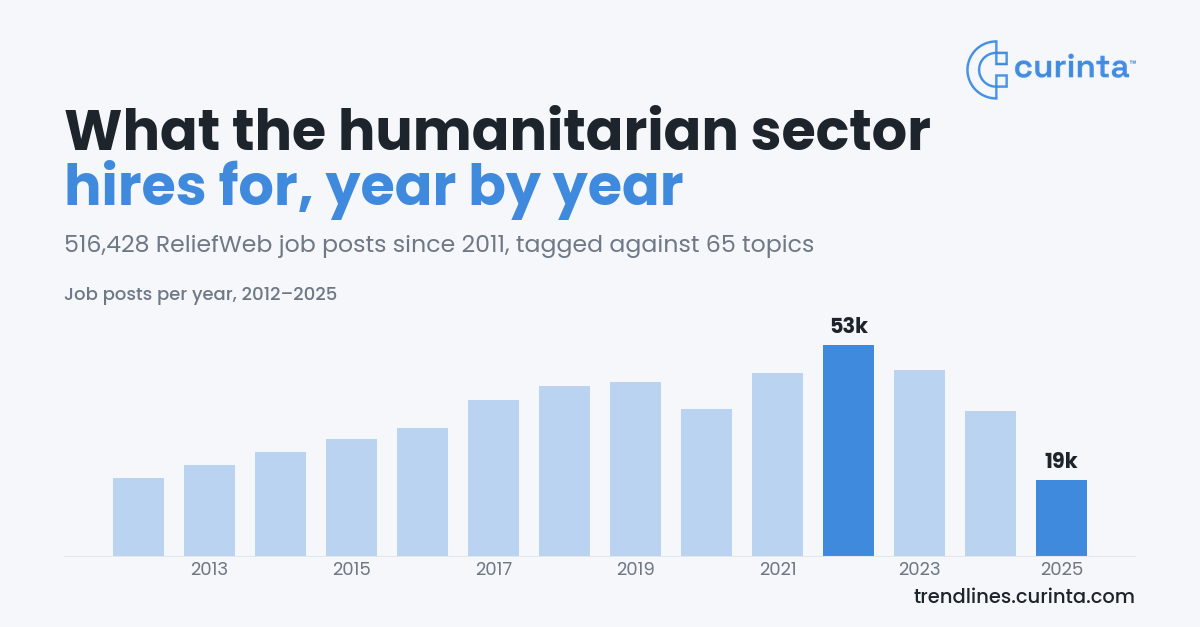
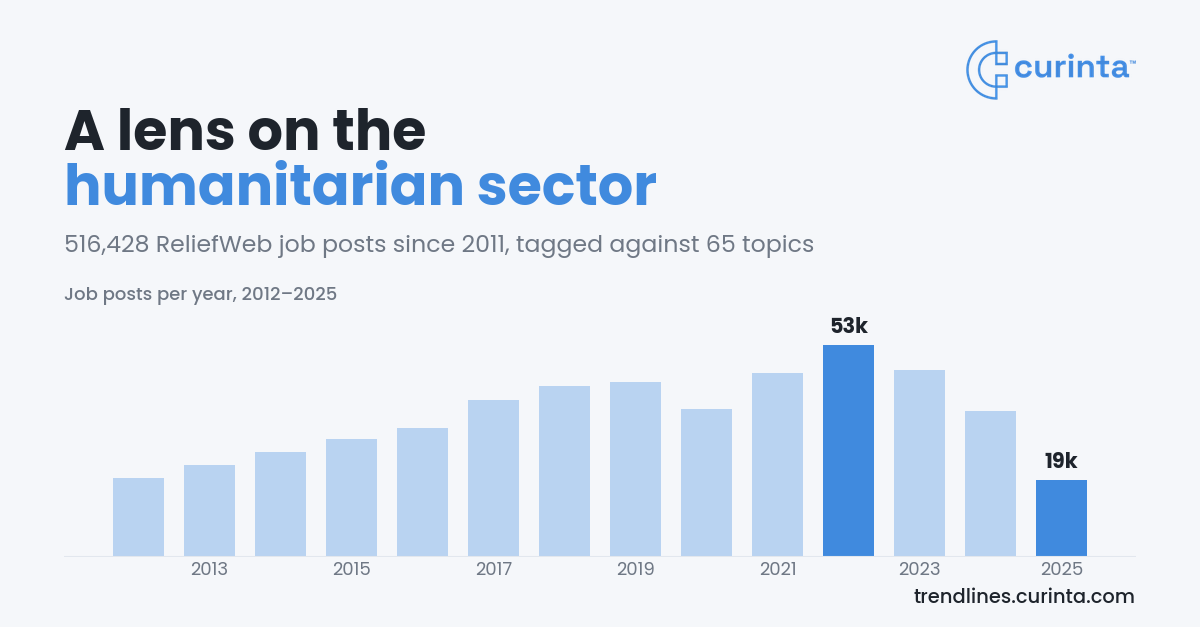
LinkedIn preview: lead with 'A lens on the humanitarian sector'
- og_image.py headline and description reworded; image version now includes a content hash so LinkedIn refetches

Claude-Session: https://claude.ai/code/session_01RjA6Gis3NLVaBtQKu8DrWg

Changed region(s): [[0.0308, 0.1515, 0.7708, 0.3636]]

diff --git a/docs/index.html b/docs/index.html
@@ -5,14 +5,14 @@
 <meta name="viewport" content="width=device-width,initial-scale=1,viewport-fit=cover">
[1 lines of base64/hex data omitted]
 <title>Humanitarian Trendlines · Curinta</title>
-<meta name="description" content="What the humanitarian sector hires for, year by year: 516,000+ ReliefWeb job posts since 2011, tagged against 65 topics and tracked by organisation.">
+<meta name="description" content="A lens on the humanitarian sector: how its priorities shift over time, read from 516,000+ ReliefWeb job posts since 2011, tagged against 65 topics and tracked by organisation.">
 <link rel="canonical" href="https://trendlines.curinta.com/">
 <meta property="og:type" content="website">
 <meta property="og:site_name" content="Curinta">
 <meta property="og:url" content="https://trendlines.curinta.com/">
-<meta property="og:title" content="Humanitarian Trendlines: what the sector hires for">
-<meta property="og:description" content="What the humanitarian sector hires for, year by year: 516,000+ ReliefWeb job posts since 2011, tagged against 65 topics and tracked by organisation.">
-<meta property="og:image" content="https://trendlines.curinta.com/og-image.png?v=20261006">
+<meta property="og:title" content="Humanitarian Trendlines: a lens on the humanitarian sector">
+<meta property="og:description" content="A lens on the humanitarian sector: how its priorities shift over time, read from 516,000+ ReliefWeb job posts since 2011, tagged against 65 topics and tracked by organisation.">
+<meta property="og:image" content="https://trendlines.curinta.com/og-image.png?v=20261006-e20811">
 <meta property="og:image:width" content="1200">
 <meta property="og:image:height" content="627">
 <meta property="og:image:alt" content="Bar chart of ReliefWeb job posts per year, 2012 to 2025, peaking at 53,000 in 2022, with 19,000 in 2025">

diff --git a/og_image.py b/og_image.py
@@ -12,6 +12,7 @@ Reads docs/data/data.js and docs/data/meta.json, then
 Use --no-html to draw the image only.
 """
 import argparse
+import hashlib
 import io
 import json
 import re
@@ -71,8 +72,8 @@ def draw(v, out):
     fig = plt.figure(figsize=(W / 100, H / 100), dpi=100)
     fig.patch.set_facecolor(BG)
     t = lambda x, y, s, **kw: fig.text(x / W, 1 - y / H, s, va="baseline", **kw)
-    t(64, 150, "What the humanitarian sector", fontsize=40, weight="bold", color=INK)
-    t(64, 205, "hires for, year by year", fontsize=40, weight="bold", color=ACCENT)
+    t(64, 150, "A lens on the", fontsize=40, weight="bold", color=INK)
+    t(64, 205, "humanitarian sector", fontsize=40, weight="bold", color=ACCENT)
     t(64, 252, f"{v['total']:,} ReliefWeb job posts since {v['first_year']}, "
                f"tagged against {v['n_topics']} topics", fontsize=17, color=MUTED)
     t(64, 300, f"Job posts per year, {years[0]}–{latest}", fontsize=13, color=MUTED, weight="medium")
@@ -117,12 +118,12 @@ def update_html(v, peak, latest):
         html = f.read()
     posts = dict(zip(v["years"], v["posts"]))
     total_floor = f"{v['total'] // 1000:,},000+"
-    desc = (f"What the humanitarian sector hires for, year by year: {total_floor} ReliefWeb job posts "
-            f"since {v['first_year']}, tagged against {v['n_topics']} topics and tracked by organisation.")
+    desc = (f"A lens on the humanitarian sector: how its priorities shift over time, read from {total_floor} "
+            f"ReliefWeb job posts since {v['first_year']}, tagged against {v['n_topics']} topics and tracked by organisation.")
     alt = (f"Bar chart of ReliefWeb job posts per year, {v['years'][0]} to {latest}, "
            f"peaking at {round(posts[peak], -3):,} in {peak}"
            + (f", with {round(posts[latest], -3):,} in {latest}" if latest != peak else ""))
-    image = f"{URL}og-image.png?v={v['generated'].replace('-', '')}"
+    image = f"{URL}og-image.png?v={v['generated'].replace('-', '')}-{hashlib.sha1((DOCS / 'og-image.png').read_bytes()).hexdigest()[:6]}"
     swaps = [
         (r'(<meta name="description" content=")[^"]*', desc),
         (r'(<meta property="og:description" content=")[^"]*', desc),
